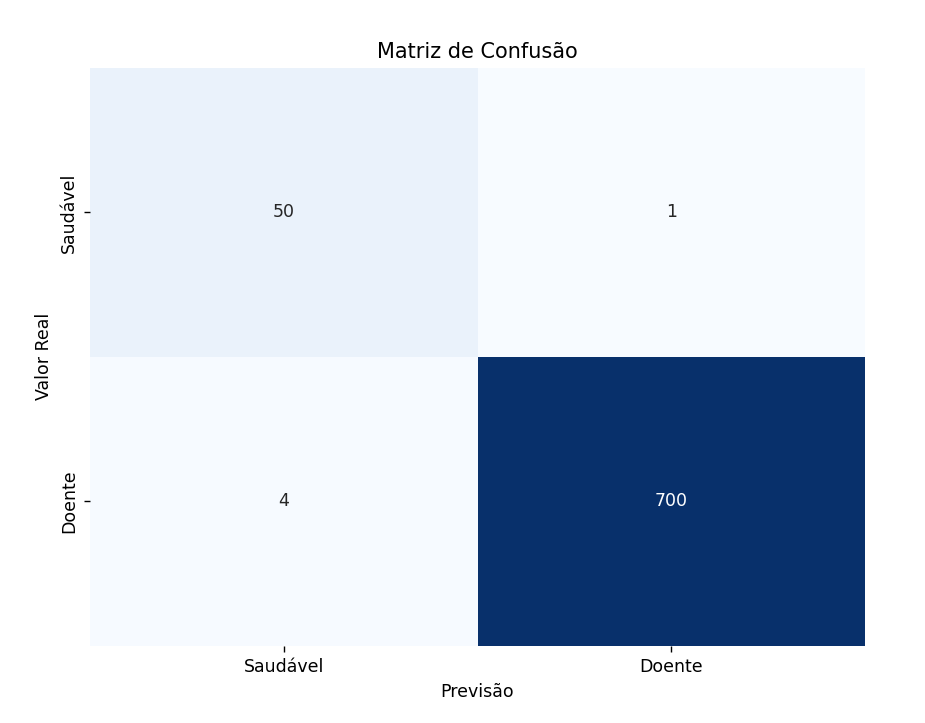
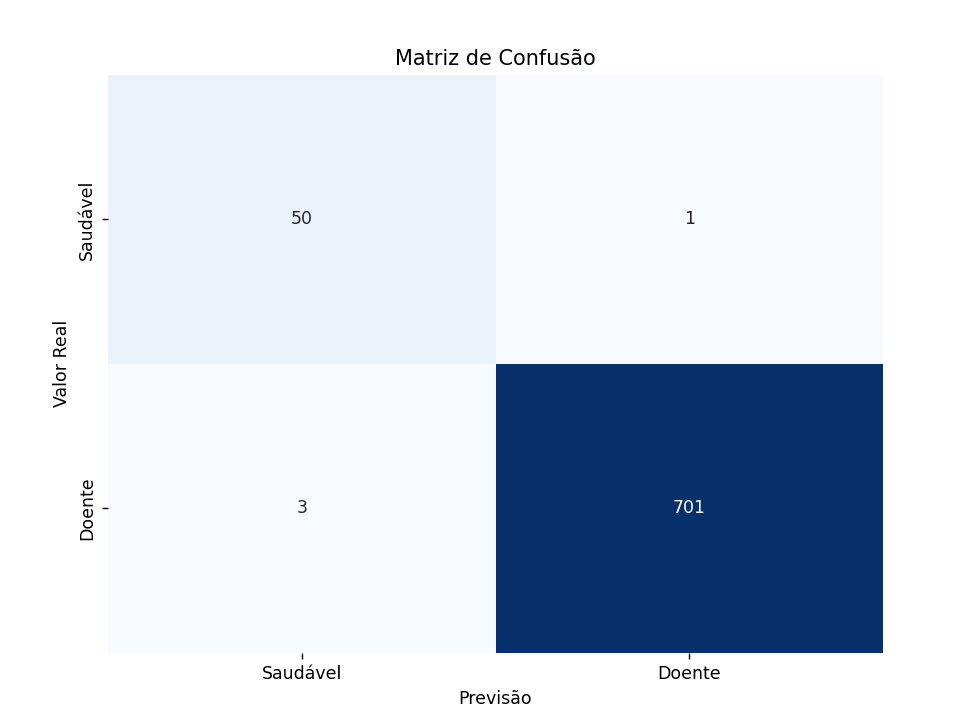
treinando xgboost para comparar

diff --git a/hypothyroid/hypothyroid.py b/hypothyroid/hypothyroid.py
@@ -2,6 +2,7 @@ from utils.pre_processing import *
 from sklearn.tree import plot_tree, DecisionTreeClassifier
 from sklearn.metrics import accuracy_score, classification_report
 from sklearn.model_selection import cross_val_score, GridSearchCV
+import xgboost as xgb
 
 '''
 o objetivo desse modelo é diagnosticar e classificar pacientes
@@ -28,11 +29,11 @@ colunas_booleanas = ['on thyroxine', 'query on thyroxine', 'on antithyroid medic
                      'sick', 'pregnant', 'thyroid surgery', 'I131 treatment',
                      'query hypothyroid', 'query hyperthyroid', 'lithium',
                      'goitre', 'tumor', 'hypopituitary', 'psych']
-data.df[colunas_booleanas] = data.df[colunas_booleanas].replace({'f': 0, 't': 1})
-data.df['binaryClass'] = data.df['binaryClass'].replace({'N': 0, 'P': 1})
+data.df[colunas_booleanas] = data.df[colunas_booleanas].replace({'f': 0, 't': 1}).astype(int)
+data.df['binaryClass'] = data.df['binaryClass'].replace({'N': 0, 'P': 1}).astype(int)
 data.df['sex'] = data.df['sex'].replace({'?': np.nan, 'F': 0, 'M': 1}) #150 faltando(~4%)
 data.imputar_simples(['sex'], estrategia='most_frequent')
-data.df['binaryClass'] = data.df['binaryClass'].astype(int)
+data.df['sex'] = data.df['sex'].astype(int)
 
 print(data.df.describe().T) #sinais de outlier em 'age', 'TSH', 'TT4', 'FTI'
 data.box_plot_multi(['age', 'TSH', 'TT4', 'FTI'], "Antes de Tratar Outliers")
@@ -89,7 +90,7 @@ features_reduzidas = ['TSH', 'on thyroxine', 'TT4', 'FTI', 'thyroid surgery', 'q
 X_treino_red = data.X_train[features_reduzidas]
 X_teste_red = data.X_test[features_reduzidas]
 
-parametros_grid = {'criterion': ['gini', 'entropy'], 'max_depth': [3, 4, 5],
+parametros_grid = {'criterion': ['gini', 'entropy'], 'max_depth': [2, 3, 4],
                    'min_samples_split': [2, 5, 10], 'min_samples_leaf': [1, 5, 10]}
 
 grid_search = GridSearchCV(DecisionTreeClassifier(random_state=0),
@@ -111,3 +112,25 @@ plt.title("Árvore de Decisão apenas com as features principais")
 plt.show()
 conf_matrix(data.y_test, pred_red, class_names)
 #taxa de positivos verdadeiros e falsos verdadeiros igual mais com 15 features a menos, acurácia também
+
+#modelo xgboost para classificação binária, vale o aumento de complexidade?
+modelo_xgb = xgb.XGBClassifier(learning_rate=0.1, max_depth=4,
+                               n_estimators=100, random_state=42, eval_metric='logloss')
+modelo_xgb.fit(data.X_train, data.y_train)
+
+previsoes = modelo_xgb.predict(data.X_test)
+prob = modelo_xgb.predict_proba(data.X_test)
+auc_roc(data.y_test, prob)
+df_resultados = pd.DataFrame({'Previsão': previsoes,
+                              'Probabilidade Doença': np.round(prob[:, 1] * 100, decimals= 2)})
+print(df_resultados.head())
+
+plt.figure(figsize=(12, 8))
+sns.histplot(df_resultados['Probabilidade Doença'], bins=30)
+plt.title('Distribuição de probabilidades de doença')
+plt.show()
+
+acuracia = accuracy_score(data.y_test, previsoes)
+print(f"\nAcurácia do Modelo XGBoost: {acuracia * 100:.2f}%\n")
+print(classification_report(data.y_test, previsoes))
+conf_matrix(data.y_test, previsoes, class_names)
